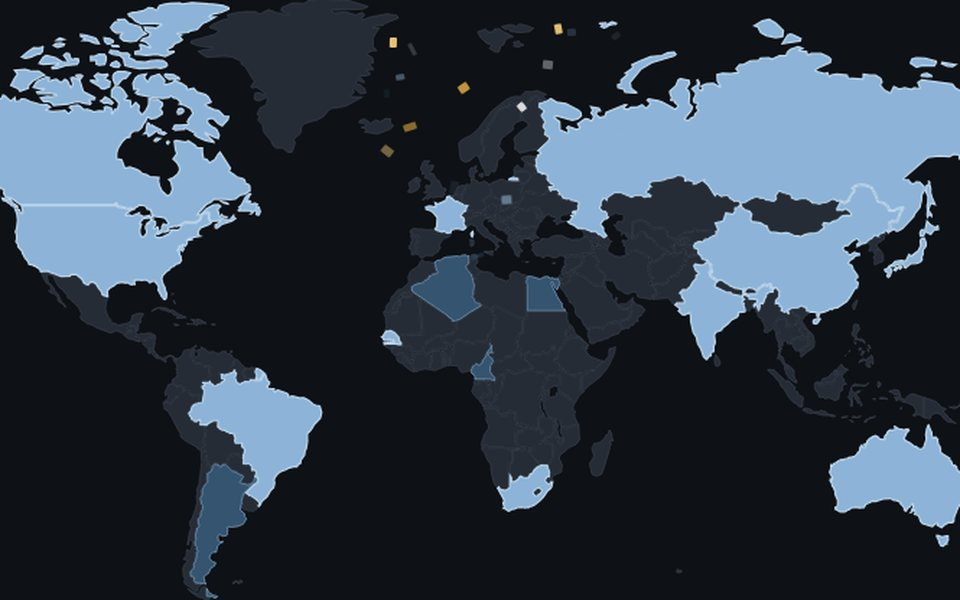
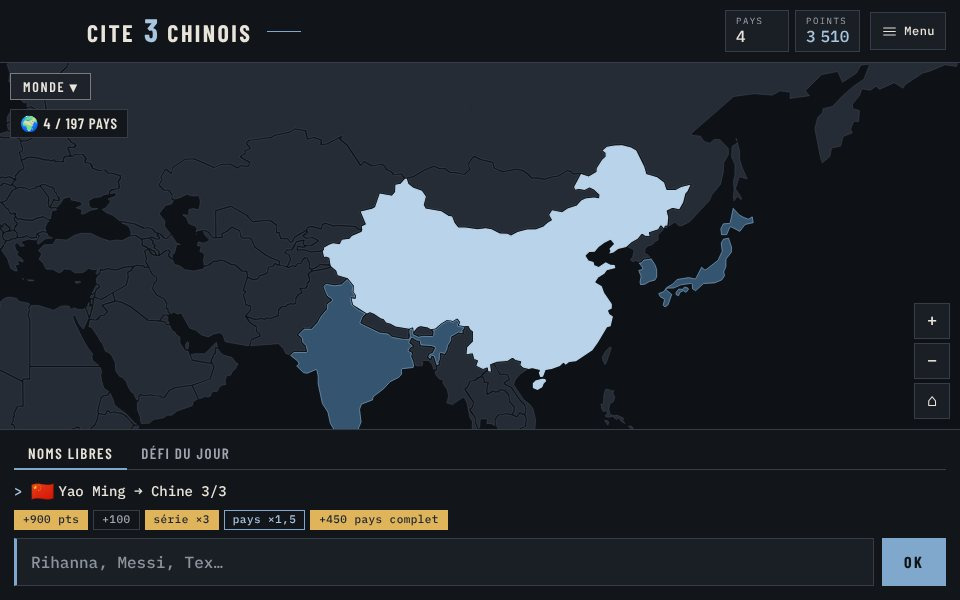
Pubs : nouveaux textes, l'habit de chaque jeu, et moins de pression
- les réclames reprennent les légendes du hub, sans côté réac ; Cite 3 Chinois : « En seriez-vous capable ? »
- la pub et la fenêtre des retours prennent les couleurs et les polices du jeu où l'on est (Osmose, Fun facts, Music Discovery)
- au plus une coupure pub par jour, jamais à la première visite d'un jeu, jamais si l'on a déjà vu les cartes des autres jeux
- après une pub, les autres jeux tiennent en une ligne au lieu des grandes cartes
- nouvelles miniatures : Fun facts (son visuel actuel), Cite 3 Chinois (centrée sur la Chine)

Claude-Session: https://claude.ai/code/session_0112PNTTYt9i4k1c5u8Ck2CF

diff --git a/osb.js b/osb.js
@@ -9,22 +9,31 @@
    OSB.pied(element, { ici })        pose en fin de visite la ligne des retours et les autres jeux
 
    Pour ajouter un jeu : une ligne dans JEUX. Pour changer une réclame : la liste « pubs » du jeu.
+   La pub et la fenêtre des retours prennent l'habit du jeu où l'on est (HABITS) : ses couleurs, ses polices.
 */
 (() => {
   if (window.OSB) return;
   const RACINE = 'https://amelienito.github.io';
+  // genre : la légende du jeu dans le hub (la même partout : hub, cartes, réclames). pubs : la phrase de la coupure pub, au hasard.
   const JEUX = [
-    { id: 'fun-facts', nom: 'Fun facts', url: '/fun-facts/', img: '/img/jeux/fun-facts.jpg', genre: 'Des faits vérifiés, sources comprises',
-      pubs: ['Coupez la parole en soirée, mais avec des sources.', 'Marre de dire « il paraît que » ? Nous aussi.'] },
+    { id: 'fun-facts', nom: 'Fun facts', url: '/fun-facts/', img: '/img/jeux/fun-facts.jpg', genre: 'Pour apprendre en s’amusant',
+      pubs: ['Des trucs marrants à ressortir au prochain repas de famille.', 'Pour apprendre en s’amusant. Surtout pour s’amuser.'] },
     { id: 'osmose', nom: 'Osmose', url: '/osmose/', img: '/img/jeux/osmose.jpg', genre: 'Le quizz rap du soir',
-      pubs: ['Vous connaissez le rap. Enfin, c’est ce que vous dites.', 'Le quizz rap où même les lucioles font semblant.'] },
-    { id: 'cite-3-chinois', nom: 'Cite 3 Chinois', url: '/cite-trois-chinois/', img: '/img/jeux/cite-3-chinois.jpg', genre: '197 pays, trois célébrités vivantes chacun',
-      pubs: ['Citez trois Chinois vivants. Non, lui, il est mort.', '197 pays. Vous séchez dès le troisième, c’est normal.'] },
-    { id: 'rp-talya', nom: 'RP Talya', url: '/Hb/', img: '/img/jeux/rp-talya.jpg', genre: 'Sept missions, une chienne aux commandes',
-      pubs: ['Un jeu où le chien décide de tout. Comme chez vous.', 'Elle a mangé le câble. Elle n’a aucun regret.'] },
-    { id: 'music-discovery', nom: 'Music Discovery', url: '/music-discovery/', img: '/img/jeux/music-discovery.jpg', genre: 'Une chaîne hi-fi, une sélection triée à la main',
-      pubs: ['De la musique choisie par un humain. Oui, ça existe encore.', 'Aucun algorithme n’a été consulté pendant le tri.'] },
+      pubs: ['Le quizz rap du soir. Les lucioles jouent avec vous.', 'Quinze questions de rap, et une seule à la fin : où tu te places.'] },
+    { id: 'cite-3-chinois', nom: 'Cite 3 Chinois', url: '/cite-trois-chinois/', img: '/img/jeux/cite-3-chinois.jpg', genre: 'Voyons voir si t’es raciste',
+      pubs: ['En seriez-vous capable ?'] },
+    { id: 'rp-talya', nom: 'RP Talya', url: '/Hb/', img: '/img/jeux/rp-talya.jpg', genre: 'Joyeux anniversaire Flo',
+      pubs: ['Sept missions, une chienne aux commandes.'] },
+    { id: 'music-discovery', nom: 'Music Discovery', url: '/music-discovery/', img: '/img/jeux/music-discovery.jpg', genre: 'Découvrir de la musique sainement',
+      pubs: ['J’ai passé ma vie à écouter de la musique. Fallait bien que je trouve un moyen de vous la repartager.'] },
   ];
+  // l'habit de la pub (et de la fenêtre des retours) : celui du jeu où l'on est, avec ses couleurs et ses polices (déjà chargées par la page)
+  const HABITS = {
+    osmose: '--o-voile:rgba(7,6,26,.84);--o-fond:#100e33;--o-bord:rgba(190,196,255,.3);--o-cadre:rgba(7,6,26,.9);--o-encre:#EEF0FF;--o-fort:#fff;--o-doux:#CDD0F4;--o-pale:#9396C9;--o-accent:#EEF0FF;--o-sur-accent:#07061A;--o-marque:#7CF7DD;--o-rouge:#FF6F8E;--o-titre:"Bodoni Moda",Didot,Georgia,serif;--o-titre-style:italic;--o-titre-poids:800;--o-texte:"Mona Sans","Helvetica Neue",Arial,sans-serif;--o-mono:"Mona Sans","Helvetica Neue",Arial,sans-serif;--o-rayon:28px;--o-champ:#0a0924;--o-tv:0',
+    'fun-facts': '--o-voile:rgba(21,19,26,.8);--o-fond:var(--creme,#fbf5e9);--o-bord:rgba(21,19,26,.16);--o-cadre:var(--nuit,#15131a);--o-encre:var(--nuit,#15131a);--o-fort:var(--nuit,#15131a);--o-doux:rgba(21,19,26,.8);--o-pale:rgba(21,19,26,.56);--o-accent:var(--or,#ffc93c);--o-sur-accent:var(--nuit,#15131a);--o-marque:var(--or-fonce,#b8860b);--o-titre:var(--titre,"Unbounded",sans-serif);--o-titre-style:var(--titre-style,normal);--o-titre-poids:var(--titre-graisse,700);--o-texte:var(--corps,"Hanken",sans-serif);--o-mono:var(--corps,"Hanken",sans-serif);--o-rayon:22px;--o-champ:#fff;--o-tv:0',
+    'music-discovery': '--o-voile:rgba(10,10,12,.62);--o-fond:var(--fond,#e7e1d7);--o-bord:var(--trait,rgba(23,23,26,.11));--o-cadre:color-mix(in srgb,var(--encre,#17171a) 14%,transparent);--o-encre:var(--encre,#17171a);--o-fort:var(--encre,#17171a);--o-doux:color-mix(in srgb,var(--encre,#17171a) 82%,transparent);--o-pale:color-mix(in srgb,var(--encre,#17171a) 56%,transparent);--o-accent:var(--aiguille,#1f3fd1);--o-sur-accent:var(--sur-aiguille,#fff);--o-marque:var(--aiguille,#1f3fd1);--o-titre:var(--display,"Archivo",sans-serif);--o-titre-poids:var(--display-poids,700);--o-texte:var(--texte,"Archivo",sans-serif);--o-mono:var(--etiquette,"Archivo",sans-serif);--o-rayon:var(--rayon-objet,14px);--o-rayon-b:var(--rayon-bouton,10px);--o-champ:color-mix(in srgb,var(--fond,#e7e1d7) 88%,var(--encre,#17171a))',
+  };
+  const habiller = (el, ici) => { const t = HABITS[ici || OSB.site]; if (t) el.setAttribute('style', t); return el; };
   // où partent les retours : le formulaire Google d'Amélien (deux champs de texte)
   const FORMULAIRE = { url: 'https://docs.google.com/forms/d/e/1FAIpQLSfKjnU_wrJef9Te-k_OjN2zwCL8aruHIswffb-_x8M8_XpY9g/formResponse', message: 'entry.665975020', lieu: 'entry.1465653503' };
 
@@ -40,51 +49,55 @@
     if (document.getElementById('osb-style')) return;
     const s = document.createElement('style'); s.id = 'osb-style';
     s.textContent = `
-.osb-voile{position:fixed;inset:0;z-index:2147483000;display:grid;place-items:center;padding:16px;background:rgba(6,5,4,.82);opacity:0;transition:opacity .28s ease;font-family:"Inter Tight","Helvetica Neue",Arial,sans-serif;color:#efe6d2;-webkit-font-smoothing:antialiased}
+.osb-voile,.osb-mot,.osb-pied{--o-voile:rgba(6,5,4,.82);--o-fond:#12100d;--o-bord:#3a3226;--o-cadre:#0a0907;--o-encre:#efe6d2;--o-fort:#fff;--o-doux:#d9cfba;--o-pale:#8d826e;--o-accent:#e3b04b;--o-sur-accent:#17130c;--o-marque:#e3b04b;--o-rouge:#ff4a3d;--o-titre:"Inter Tight","Helvetica Neue",Arial,sans-serif;--o-titre-style:normal;--o-titre-poids:800;--o-texte:"Inter Tight","Helvetica Neue",Arial,sans-serif;--o-mono:ui-monospace,"IBM Plex Mono",Menlo,monospace;--o-rayon:14px;--o-rayon-b:999px;--o-champ:#0a0907;--o-tv:1}
+.osb-voile{position:fixed;inset:0;z-index:2147483000;display:grid;place-items:center;padding:16px;background:var(--o-voile);opacity:0;transition:opacity .28s ease;font-family:var(--o-texte);color:var(--o-encre);-webkit-font-smoothing:antialiased;-webkit-text-size-adjust:100%;text-size-adjust:100%}
 .osb-voile.osb-on{opacity:1}
 .osb-voile *{box-sizing:border-box}
-.osb-poste{position:relative;width:min(560px,100%);max-height:calc(100dvh - 32px);overflow:auto;background:#12100d;border:1px solid #3a3226;border-radius:14px;box-shadow:0 30px 90px rgba(0,0,0,.7),0 0 0 6px #0a0907;transform:scale(.94) translateY(10px);transition:transform .35s cubic-bezier(.2,.9,.25,1.15)}
+.osb-poste{position:relative;width:min(560px,100%);max-height:calc(100dvh - 32px);overflow:auto;background:var(--o-fond);border:1px solid var(--o-bord);border-radius:var(--o-rayon);box-shadow:0 30px 90px rgba(0,0,0,.6),0 0 0 6px var(--o-cadre);transform:scale(.94) translateY(10px);transition:transform .35s cubic-bezier(.2,.9,.25,1.15)}
 .osb-on .osb-poste{transform:none}
-.osb-bandeau{display:flex;align-items:center;gap:10px;padding:10px 14px;border-bottom:1px solid #2a241b;font:700 11px/1 ui-monospace,"IBM Plex Mono",Menlo,monospace;letter-spacing:.16em;text-transform:uppercase;color:#a89c85}
-.osb-rouge{width:8px;height:8px;border-radius:50%;background:#ff4a3d;box-shadow:0 0 10px #ff4a3d;animation:osb-clign 1.1s steps(2) infinite}
+.osb-bandeau{display:flex;align-items:center;gap:10px;padding:10px 14px;white-space:nowrap;overflow:hidden;border-bottom:1px solid var(--o-bord);font:700 11px/1 var(--o-mono);font-stretch:118%;letter-spacing:.16em;text-transform:uppercase;color:var(--o-pale)}
+.osb-rouge{width:8px;height:8px;border-radius:50%;background:var(--o-rouge);box-shadow:0 0 10px var(--o-rouge);animation:osb-clign 1.1s steps(2) infinite}
 @keyframes osb-clign{50%{opacity:.25}}
-.osb-bandeau b{color:#efe6d2;font-weight:700}
+.osb-bandeau b{color:var(--o-encre);font-weight:700}
 .osb-bandeau span:last-child{margin-left:auto}
-.osb-ecran{position:relative;display:block;aspect-ratio:1200/630;background:#000 center/cover no-repeat;overflow:hidden}
-.osb-ecran::after{content:"";position:absolute;inset:0;background:repeating-linear-gradient(rgba(0,0,0,0) 0 2px,rgba(0,0,0,.16) 2px 3px),radial-gradient(120% 90% at 50% 50%,rgba(0,0,0,0) 55%,rgba(0,0,0,.5));pointer-events:none}
-.osb-ecran i{position:absolute;left:0;right:0;height:22%;top:-22%;background:linear-gradient(rgba(255,255,255,0),rgba(255,255,255,.07),rgba(255,255,255,0));animation:osb-balai 4.5s linear infinite}
+.osb-ecran{position:relative;display:block;aspect-ratio:16/10;background:#000 center/cover no-repeat;overflow:hidden}
+.osb-ecran::after{content:"";position:absolute;inset:0;opacity:var(--o-tv);background:repeating-linear-gradient(rgba(0,0,0,0) 0 2px,rgba(0,0,0,.16) 2px 3px),radial-gradient(120% 90% at 50% 50%,rgba(0,0,0,0) 55%,rgba(0,0,0,.5));pointer-events:none}
+.osb-ecran i{position:absolute;left:0;right:0;height:22%;top:-22%;opacity:var(--o-tv);background:linear-gradient(rgba(255,255,255,0),rgba(255,255,255,.07),rgba(255,255,255,0));animation:osb-balai 4.5s linear infinite}
 @keyframes osb-balai{to{top:100%}}
 .osb-texte{padding:16px 18px 6px}
-.osb-marque{font:700 11px/1 ui-monospace,"IBM Plex Mono",Menlo,monospace;letter-spacing:.16em;text-transform:uppercase;color:#e3b04b}
-.osb-nom{margin:8px 0 6px;font-size:clamp(26px,7vw,34px);font-weight:800;line-height:1;letter-spacing:-.02em;color:#fff}
-.osb-slogan{margin:0;font-size:17px;line-height:1.35;color:#d9cfba;text-wrap:balance}
-.osb-genre{margin:6px 0 0;font-size:13px;color:#8d826e}
+.osb-marque{font:700 11px/1 var(--o-mono);font-stretch:118%;letter-spacing:.16em;text-transform:uppercase;color:var(--o-marque)}
+.osb-nom{margin:8px 0 6px;font-family:var(--o-titre);font-style:var(--o-titre-style);font-weight:var(--o-titre-poids);font-size:clamp(28px,7.4vw,36px);line-height:1;letter-spacing:-.02em;color:var(--o-fort)}
+.osb-slogan{margin:0;font-size:17px;line-height:1.38;color:var(--o-doux);text-wrap:balance}
+.osb-genre{margin:6px 0 0;font-size:13px;color:var(--o-pale)}
 .osb-boutons{display:flex;gap:10px;padding:14px 18px 18px;flex-wrap:wrap}
-.osb-b{flex:1 1 150px;min-height:48px;padding:0 18px;border-radius:999px;border:1px solid #4a4031;background:transparent;color:#efe6d2;font:700 15px/1 inherit;font-family:inherit;cursor:pointer;text-decoration:none;display:inline-flex;align-items:center;justify-content:center;gap:8px;transition:transform .15s,background .2s,border-color .2s}
-.osb-b:hover{border-color:#8d826e}
+.osb-b{flex:1 1 150px;min-height:48px;padding:0 18px;border-radius:var(--o-rayon-b);border:1px solid var(--o-bord);background:transparent;color:var(--o-encre);font-family:var(--o-texte);font-weight:700;font-size:15px;line-height:1;cursor:pointer;text-decoration:none;display:inline-flex;align-items:center;justify-content:center;gap:8px;transition:transform .15s,background .2s,border-color .2s,filter .2s}
+.osb-b:hover{border-color:var(--o-pale)}
 .osb-b:active{transform:scale(.97)}
-.osb-b.osb-or{background:#e3b04b;border-color:#e3b04b;color:#17130c}
-.osb-b.osb-or:hover{background:#f0c264}
+.osb-b.osb-or{background:var(--o-accent);border-color:var(--o-accent);color:var(--o-sur-accent)}
+.osb-b.osb-or:hover{filter:brightness(1.08)}
 .osb-b[disabled]{opacity:.55;cursor:default}
-.osb-mention{padding:0 18px 14px;font-size:11.5px;color:#6f6656;text-align:center}
-.osb-x{position:absolute;top:8px;right:8px;width:36px;height:36px;border-radius:50%;border:0;background:rgba(0,0,0,.35);color:#efe6d2;font-size:18px;cursor:pointer}
-.osb-titre{margin:0;padding:20px 54px 4px 18px;font-size:22px;font-weight:800;line-height:1.15;letter-spacing:-.01em;color:#fff;text-wrap:balance}
-.osb-sous{margin:0;padding:0 18px 12px;font-size:14px;color:#a89c85;line-height:1.4}
-.osb-champ{display:block;width:calc(100% - 36px);margin:0 18px 10px;padding:12px 14px;border-radius:12px;border:1px solid #3a3226;background:#0a0907;color:#efe6d2;font:500 16px/1.4 inherit;font-family:inherit}
-.osb-champ:focus{outline:2px solid #e3b04b;outline-offset:1px}
+.osb-mention{padding:0 18px 14px;font-size:11.5px;color:var(--o-pale);text-align:center}
+.osb-x{position:absolute;top:8px;right:8px;width:36px;height:36px;border-radius:50%;border:0;background:color-mix(in srgb,var(--o-encre) 10%,transparent);color:var(--o-encre);font-size:18px;cursor:pointer}
+.osb-titre{margin:0;padding:20px 54px 4px 18px;font-family:var(--o-titre);font-style:var(--o-titre-style);font-weight:var(--o-titre-poids);font-size:22px;line-height:1.15;letter-spacing:-.01em;color:var(--o-fort);text-wrap:balance}
+.osb-sous{margin:0;padding:0 18px 12px;font-size:14px;color:var(--o-pale);line-height:1.4}
+.osb-champ{display:block;width:calc(100% - 36px);margin:0 18px 10px;padding:12px 14px;border-radius:12px;border:1px solid var(--o-bord);background:var(--o-champ);color:var(--o-encre);font-family:var(--o-texte);font-weight:500;font-size:16px;line-height:1.4}
+.osb-champ:focus{outline:2px solid var(--o-marque);outline-offset:1px}
 textarea.osb-champ{min-height:120px;resize:vertical}
-.osb-mot{position:fixed;left:50%;bottom:calc(18px + env(safe-area-inset-bottom));z-index:2147482000;display:flex;align-items:center;gap:12px;max-width:calc(100vw - 24px);padding:10px 8px 10px 16px;border-radius:999px;background:#12100d;border:1px solid #3a3226;box-shadow:0 12px 34px rgba(0,0,0,.5);color:#efe6d2;font:500 14px/1.2 "Inter Tight","Helvetica Neue",Arial,sans-serif;white-space:nowrap;transform:translate(-50%,24px);opacity:0;transition:transform .4s cubic-bezier(.2,.9,.25,1.15),opacity .3s}
+.osb-mot{position:fixed;left:50%;bottom:calc(18px + env(safe-area-inset-bottom));z-index:2147482000;display:flex;align-items:center;gap:12px;max-width:calc(100vw - 24px);padding:10px 8px 10px 16px;border-radius:999px;background:var(--o-fond);border:1px solid var(--o-bord);box-shadow:0 12px 34px rgba(0,0,0,.4);color:var(--o-encre);font-family:var(--o-texte);font-weight:500;font-size:14px;line-height:1.2;white-space:nowrap;transform:translate(-50%,24px);opacity:0;transition:transform .4s cubic-bezier(.2,.9,.25,1.15),opacity .3s}
 .osb-mot.osb-on{transform:translate(-50%,0);opacity:1}
-.osb-mot b{color:#fff}
-.osb-mot a{color:#e3b04b;font-weight:700;text-underline-offset:3px}
-.osb-mot button{width:30px;height:30px;border-radius:50%;border:0;background:transparent;color:#8d826e;font-size:14px;cursor:pointer}
+.osb-mot b{color:var(--o-fort)}
+.osb-mot a{color:var(--o-marque);font-weight:700;text-underline-offset:3px}
+.osb-mot button{width:30px;height:30px;border-radius:50%;border:0;background:transparent;color:var(--o-pale);font-size:14px;cursor:pointer}
 .osb-merci{padding:30px 18px 34px;text-align:center;font-size:18px;line-height:1.4}
-.osb-merci b{display:block;font-size:26px;margin-bottom:6px;color:#fff}
+.osb-merci b{display:block;font-family:var(--o-titre);font-style:var(--o-titre-style);font-weight:var(--o-titre-poids);font-size:28px;margin-bottom:6px;color:var(--o-fort)}
 .osb-pied{margin:26px auto 0;width:100%;max-width:560px;text-align:center;font-family:inherit}
 .osb-pied *{box-sizing:border-box}
 .osb-pied-retour{display:inline-block;padding:10px 4px;background:none;border:0;color:inherit;font:inherit;font-size:14.5px;line-height:1.4;opacity:.8;cursor:pointer;text-decoration:underline;text-decoration-thickness:1px;text-underline-offset:4px;text-decoration-color:color-mix(in srgb,currentColor 45%,transparent);transition:opacity .2s}
 .osb-pied-retour:hover{opacity:1}
 .osb-pied-t{margin:18px 0 10px;font-size:11px;font-weight:700;letter-spacing:.18em;text-transform:uppercase;opacity:.55}
+.osb-pied-liste{margin:0;font-size:15px;line-height:1.7}
+.osb-pied-liste a{color:inherit;font-weight:700;text-underline-offset:4px;text-decoration-thickness:1px}
+.osb-pied-liste span{opacity:.45;margin:0 .45em}
 .osb-pied-jeux{display:grid;grid-template-columns:1fr;gap:14px}
 @media (min-width:600px){.osb-pied-jeux{grid-template-columns:repeat(2,1fr);gap:16px}}
 .osb-carte{position:relative;display:block;border-radius:14px;overflow:hidden;text-decoration:none;color:#fff;background:#111;aspect-ratio:16/10;box-shadow:0 0 0 1px rgba(255,255,255,.14);transition:transform .2s,box-shadow .2s}
@@ -93,7 +106,7 @@ textarea.osb-champ{min-height:120px;resize:vertical}
 .osb-carte:hover{transform:translateY(-2px);box-shadow:0 0 0 1px rgba(255,255,255,.4),0 10px 24px rgba(0,0,0,.4)}
 .osb-carte span{position:absolute;left:0;right:0;bottom:0;padding:38px 14px 12px;font:500 13px/1.3 "Inter Tight","Helvetica Neue",Arial,sans-serif;text-align:left;color:rgba(255,255,255,.82);background:linear-gradient(rgba(0,0,0,0),rgba(0,0,0,.88))}
 .osb-carte b{display:block;margin-bottom:2px;font-size:18px;font-weight:700;color:#fff;letter-spacing:-.01em}
-.osb-carte em{position:absolute;top:10px;left:10px;z-index:1;padding:3px 6px;border-radius:999px;background:#e3b04b;color:#17130c;font:700 9.5px/1 ui-monospace,Menlo,monospace;letter-spacing:.06em;text-transform:uppercase;font-style:normal}
+.osb-carte em{position:absolute;top:10px;left:10px;z-index:1;padding:3px 6px;border-radius:999px;background:var(--o-accent);color:var(--o-sur-accent);font:700 9.5px/1 ui-monospace,Menlo,monospace;letter-spacing:.06em;text-transform:uppercase;font-style:normal}
 @media (prefers-reduced-motion:reduce){.osb-voile,.osb-poste{transition:none}.osb-rouge,.osb-ecran i{animation:none}}
 `;
     document.head.appendChild(s);
@@ -103,7 +116,7 @@ textarea.osb-champ{min-height:120px;resize:vertical}
   function ouvrir(html, { fermable = true } = {}) {
     style(); if (ouvert) ouvert.fermer();
     const v = document.createElement('div'); v.className = 'osb-voile'; v.setAttribute('role', 'dialog'); v.setAttribute('aria-modal', 'true');
-    v.innerHTML = '<div class="osb-poste">' + html + '</div>';
+    v.innerHTML = '<div class="osb-poste">' + html + '</div>'; habiller(v);
     document.body.appendChild(v);
     const avant = document.activeElement;
     let finir; const fini = new Promise((r) => (finir = r));
@@ -129,7 +142,7 @@ textarea.osb-champ{min-height:120px;resize:vertical}
       return v;
     },
     mot(html, action, url) {
-      style(); const m = document.createElement('div'); m.className = 'osb-mot';
+      style(); const m = habiller(document.createElement('div')); m.className = 'osb-mot';
       m.innerHTML = '<span>' + html + '</span>' + (action ? '<a href="' + url + '">' + h(action) + '</a>' : '') + '<button type="button" aria-label="Fermer">✕</button>';
       document.body.appendChild(m); requestAnimationFrame(() => m.classList.add('osb-on'));
       const partir = () => { m.classList.remove('osb-on'); setTimeout(() => m.remove(), 400); };
@@ -138,10 +151,14 @@ textarea.osb-champ{min-height:120px;resize:vertical}
     vus() { return mem.lire('osb-vus', {}); },
     autres(id) { const v = OSB.vus(); return JEUX.filter((j) => j.id !== (id || OSB.site)).sort((a, b) => (v[a.id] ? 1 : 0) - (v[b.id] ? 1 : 0)); },
 
-    /* la coupure pub. Jamais deux dans la même visite, jamais deux en moins de dix minutes d'un jeu à l'autre (sauf force). */
-    pubPossible() { return !OSB._pubVue && Date.now() - mem.lire('osb-pub-t', 0) > 10 * 60 * 1000; },
+    /* la coupure pub, avec parcimonie : au plus une par jour, tous jeux confondus ; jamais pendant la toute première visite d'un jeu ;
+       et jamais dans une visite où l'on a déjà vu les cartes des autres jeux en bas de page (une réclame à la fois, pas les deux) */
+    pubPossible(ici) {
+      const v = OSB.vus()[ici || OSB.site];
+      return !OSB._pubVue && !OSB._piedVu && !!v && v.n >= 2 && Date.now() - mem.lire('osb-pub-t', 0) > 20 * 3600 * 1000;
+    },
     pub({ ici, force = false, attente = 3, auto = 0 } = {}) {
-      if (!force && !OSB.pubPossible()) return Promise.resolve(null);
+      if (!force && !OSB.pubPossible(ici)) return Promise.resolve(null);
       const choix = OSB.autres(ici); if (!choix.length) return Promise.resolve(null);
       // de préférence un jeu jamais ouvert ; sinon, pas le même que la dernière fois
       const v = OSB.vus(), neufs = choix.filter((j) => !v[j.id]), dernier = mem.lire('osb-pub-j', '');
@@ -189,15 +206,22 @@ textarea.osb-champ{min-height:120px;resize:vertical}
       return f.fini;
     },
 
-    /* en fin de visite : la ligne des retours, puis les autres jeux (jamais ouverts d'abord) */
+    /* en fin de visite : la ligne des retours, puis les autres jeux, en grandes cartes (par ordre alphabétique).
+       Si une coupure pub est déjà passée pendant cette visite, une simple ligne de liens suffit. */
     pied(el, { ici, contexte = '', jeux = true, titre = 'Les autres jeux d’OSB Corporation' } = {}) {
       if (!el) return null; style();
-      const v = OSB.vus(), d = document.createElement('div'); d.className = 'osb-pied';
-      d.innerHTML = '<button class="osb-pied-retour" type="button">Un retour ? Un commentaire ? Un bug à partager ?</button>' +
-        (jeux ? '<div class="osb-pied-t">' + h(titre) + '</div><div class="osb-pied-jeux">' + OSB.autres(ici).sort((a, b) => a.nom.localeCompare(b.nom, 'fr')).map((j) =>
-          '<a class="osb-carte" href="' + lien(j, ici) + '"><i style="background-image:url(' + RACINE + j.img + ')"></i>' + (v[j.id] ? '' : '<em>pas encore vu</em>') + '<span><b>' + h(j.nom) + '</b>' + h(j.genre) + '</span></a>').join('') + '</div>' : '');
+      const v = OSB.vus(), d = habiller(document.createElement('div'), ici); d.className = 'osb-pied';
+      const liste = OSB.autres(ici).sort((a, b) => a.nom.localeCompare(b.nom, 'fr'));
+      d.innerHTML = '<button class="osb-pied-retour" type="button">Un retour ? Un commentaire ? Un bug à partager ?</button>' + (!jeux ? '' : OSB._pubVue
+        ? '<div class="osb-pied-t">' + h(titre) + '</div><p class="osb-pied-liste">' + liste.map((j) => '<a href="' + lien(j, ici) + '">' + h(j.nom) + '</a>').join('<span>·</span>') + '</p>'
+        : '<div class="osb-pied-t">' + h(titre) + '</div><div class="osb-pied-jeux">' + liste.map((j) =>
+          '<a class="osb-carte" href="' + lien(j, ici) + '"><i style="background-image:url(' + RACINE + j.img + ')"></i>' + (v[j.id] ? '' : '<em>pas encore vu</em>') + '<span><b>' + h(j.nom) + '</b>' + h(j.genre) + '</span></a>').join('') + '</div>');
       d.querySelector('.osb-pied-retour').onclick = () => OSB.retour({ ici, contexte });
-      el.appendChild(d); return d;
+      el.appendChild(d);
+      // les cartes ont été vues (au moins un tiers à l'écran) : pas de coupure pub en plus pendant cette visite
+      const g = d.querySelector('.osb-pied-jeux');
+      if (g && 'IntersectionObserver' in window) { const io = new IntersectionObserver((es) => { if (es.some((e) => e.isIntersecting)) { OSB._piedVu = true; io.disconnect(); } }, { threshold: .34 }); io.observe(g); }
+      return d;
     },
   };
   window.OSB = OSB;
